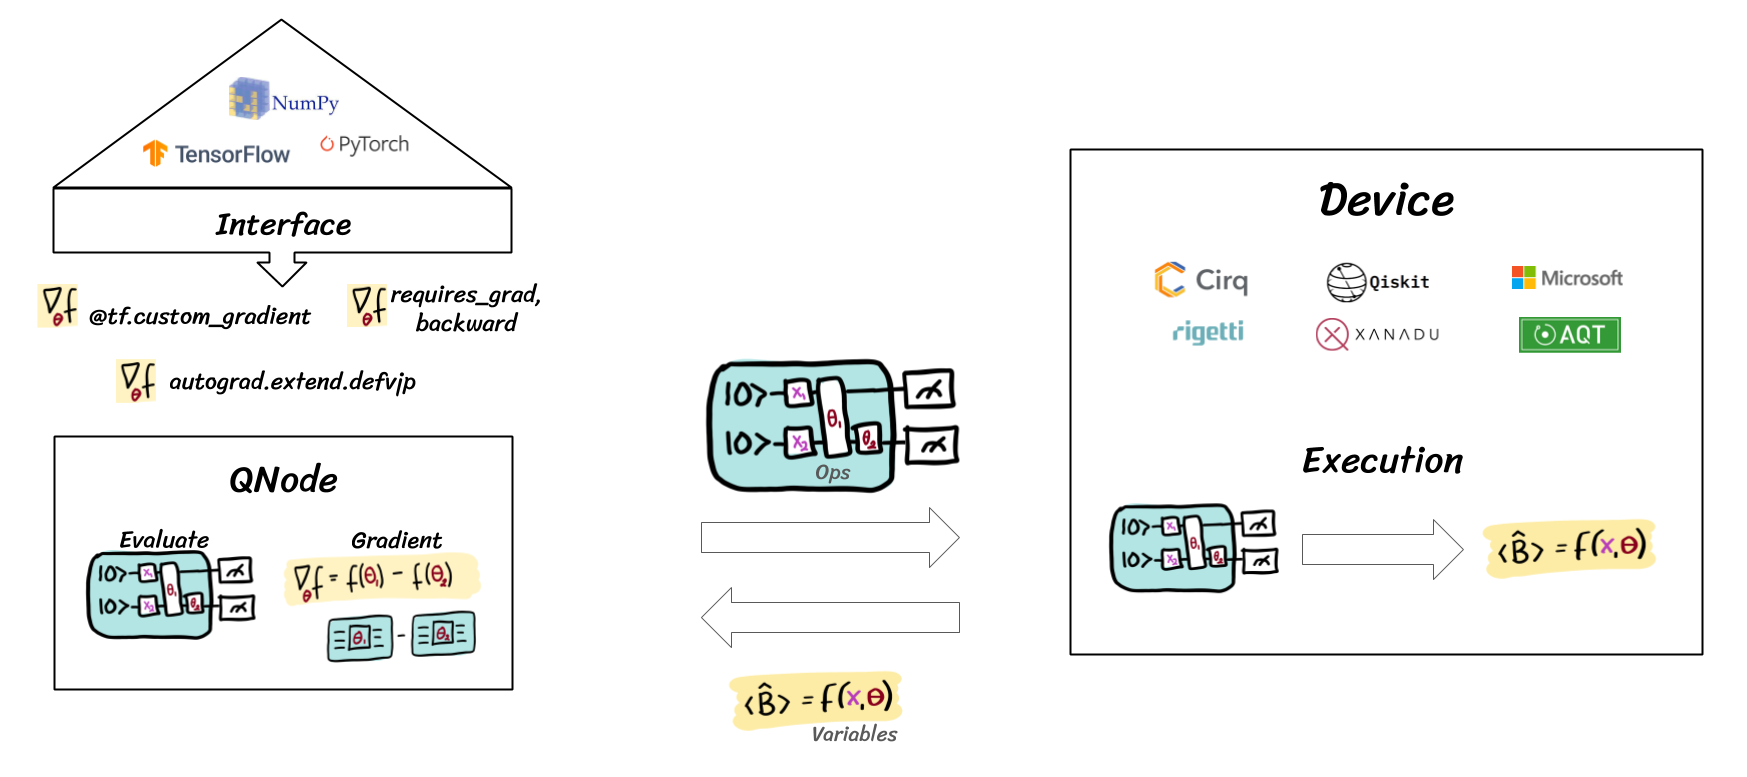
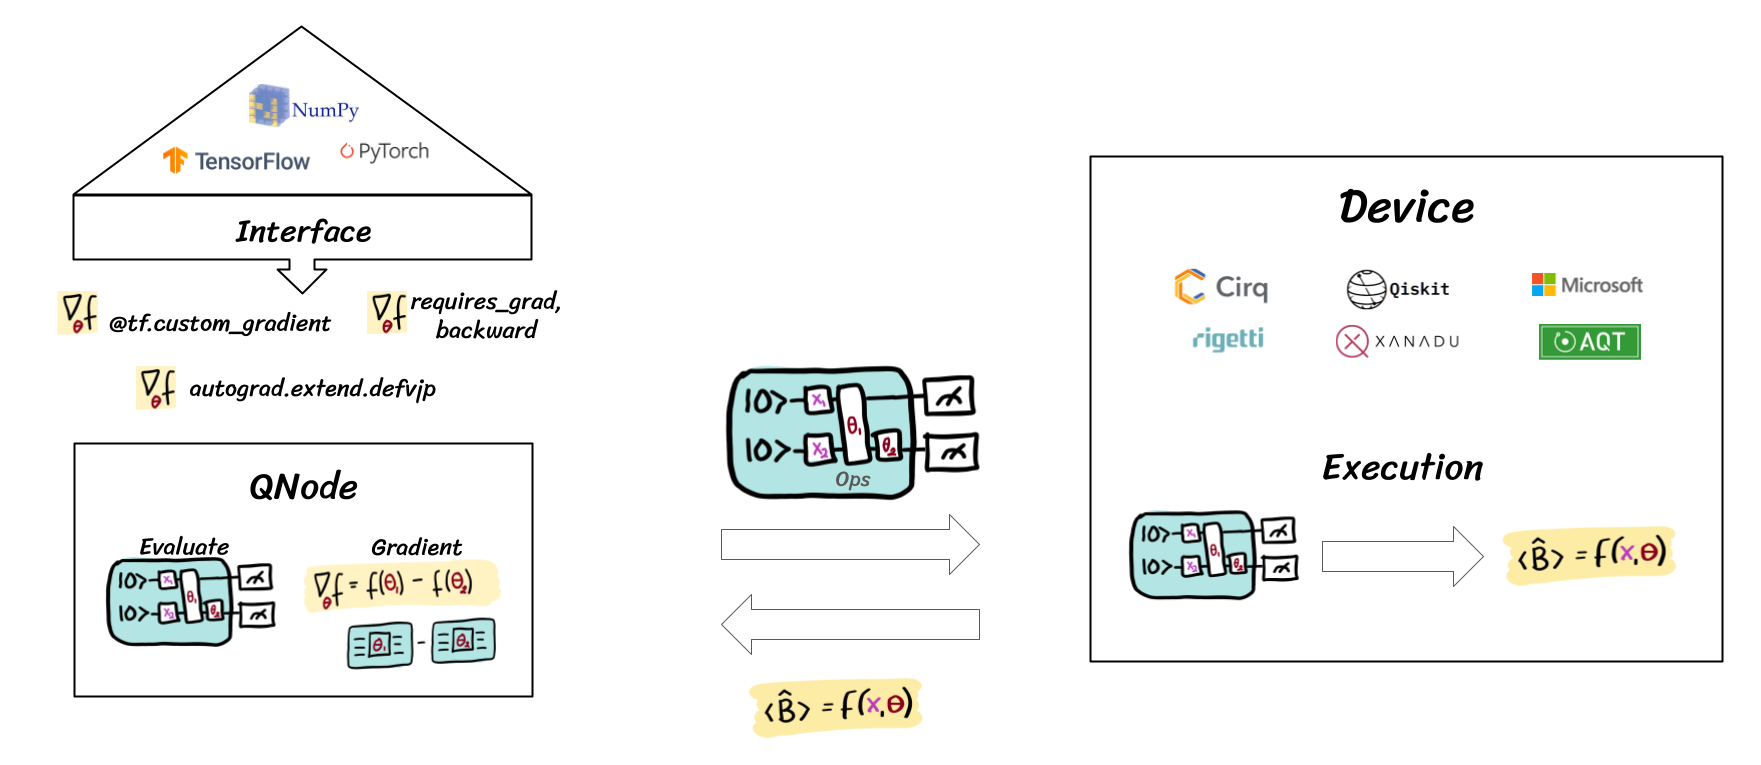
Remove mentioning Variables in the architecture diagram (#1235)
* No Variables mention in diagram

* changelog

diff --git a/.github/CHANGELOG.md b/.github/CHANGELOG.md
@@ -773,6 +773,10 @@
 
 <h3>Documentation</h3>
 
+- Updated the diagram used in the Architectural overview page of the
+  Development guide such that it doesn't mention Variables.
+  [(#1235)](https://github.com/PennyLaneAI/pennylane/pull/1235)
+
 - Typos addressed in templates documentation.
   [(#1094)](https://github.com/PennyLaneAI/pennylane/pull/1094)
 
